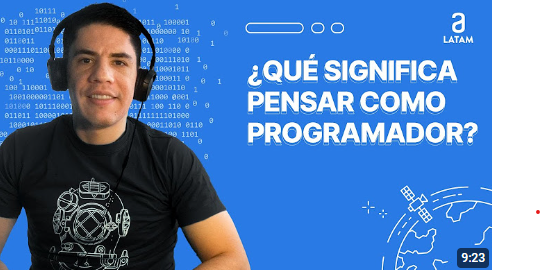
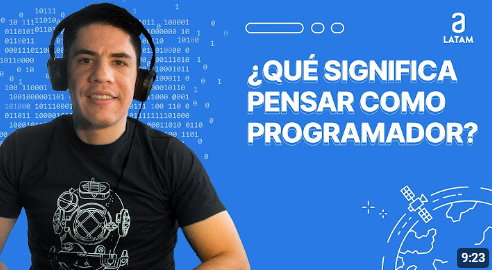
"correcion de baner en estilizacion"

diff --git a/src/Componentes/Card Banner/CardBanner.js b/src/Componentes/Card Banner/CardBanner.js
@@ -9,13 +9,13 @@ import "./CardBanner.css"
 const CardBanner = () => {
     return <section className="card_banner">
 
-        <div className="titulo">
-            <FrontTitulo />
-        </div>
-
         <div className="info_banner">
+            <div className="titulo">
+                <FrontTitulo />
+            </div>
             <h1>Challenge React</h1>
-            <p>Este challenge es una forma de aprendizaje. Es un mecanismo donde podrás comprometerte
+            <p>
+                Este challenge es una forma de aprendizaje. Es un mecanismo donde podrás comprometerte
                 en la resolución de un problema para poder aplicar todos los conocimientos adquiridos
                 en la formación React.
             </p>
@@ -23,10 +23,10 @@ const CardBanner = () => {
 
         <div className="vid_sec">
             <VideoBanner />
-
         </div>
 
     </section>
+
 }
 
 export default CardBanner

diff --git a/src/Componentes/Card Banner/CardBanner.css b/src/Componentes/Card Banner/CardBanner.css
@@ -1,0 +1,40 @@
+
+.card_banner{
+    display: flex;
+    width: 1440px;
+    height: 330px;
+    justify-content: space-evenly;
+    align-items: center;
+    box-sizing: border-box;
+}
+
+.info_banner {
+    display: flex;
+    flex-direction: column;
+    font-family: "Roboto", sans-serif;
+    color: #fff;
+    box-sizing: border-box;
+    width: 665px;
+    height: 305px;
+    box-sizing: border-box;
+}
+
+.info_banner h1{
+    font-size: 46px;
+    font-weight: 600;
+}
+
+.info_banner p{
+    font-size: 22px;
+    font-weight: 400;
+}
+
+.vid_sec{
+    display: flex;
+    justify-content: center;
+    align-items: center;
+    box-sizing: border-box;
+    /* width: 665px;
+    height: 305px; */
+
+}

diff --git a/src/Componentes/Card Banner/caratulaBanner/index.js b/src/Componentes/Card Banner/caratulaBanner/index.js
@@ -3,10 +3,9 @@ import "./videoBanner.css"
 
 function VideoBanner() {
 
-    return <a href="https://youtu.be/ov7vA5HFe6w?si=rehFqGc0Ux0Z89fj" target="blank">
+    return <a href="https://youtu.be/ov7vA5HFe6w?si=rehFqGc0Ux0Z89fj" target="blank" >
         <img className="video_banner" src="./Imagenes/PensarProgramador.png" alt="Pensar como..." />
     </a>
-
 
 }
 

diff --git a/src/Componentes/Card Banner/caratulaBanner/videoBanner.css b/src/Componentes/Card Banner/caratulaBanner/videoBanner.css
@@ -1,5 +1,10 @@
-/* .video_banner{
+.video_banner{
     display: flex;
-    border: 5px solid #6BD1FF;
-    box-sizing: border-box;
-} */
+    align-items: center;
+    justify-content: center;
+    width: 640px;
+    height: 360px; 
+    border-radius: 20px;
+    border:5px solid #6BD1FF;
+}
+

diff --git a/src/Componentes/CardVideo/Caratula/index.js b/src/Componentes/CardVideo/Caratula/index.js
@@ -7,7 +7,6 @@ function Caratula() {
         <img className="perfil" src="./Imagenes/CuandoVar.png" alt="Uso de variables" />
     </a>
 
-
 }
 
 
